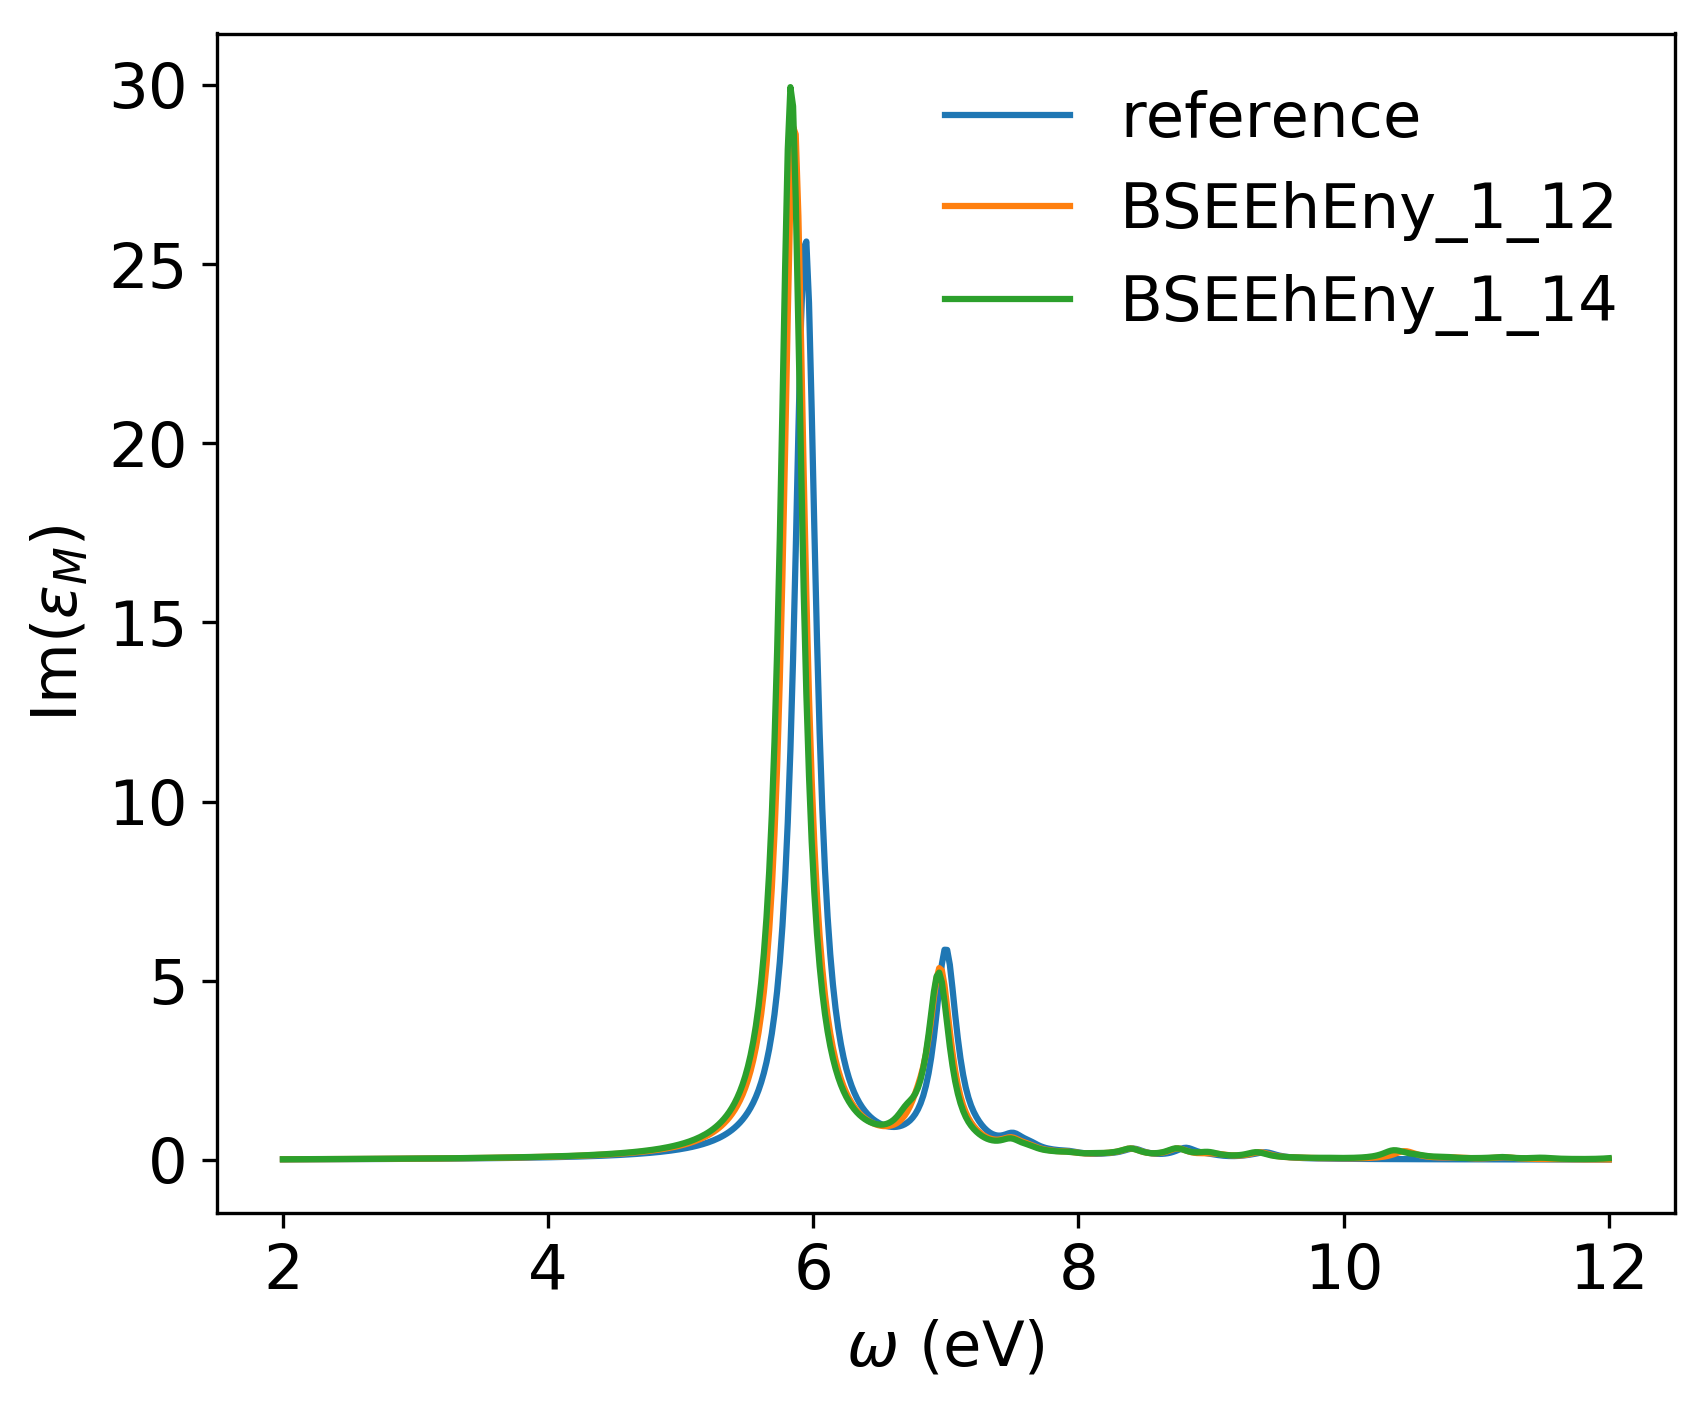
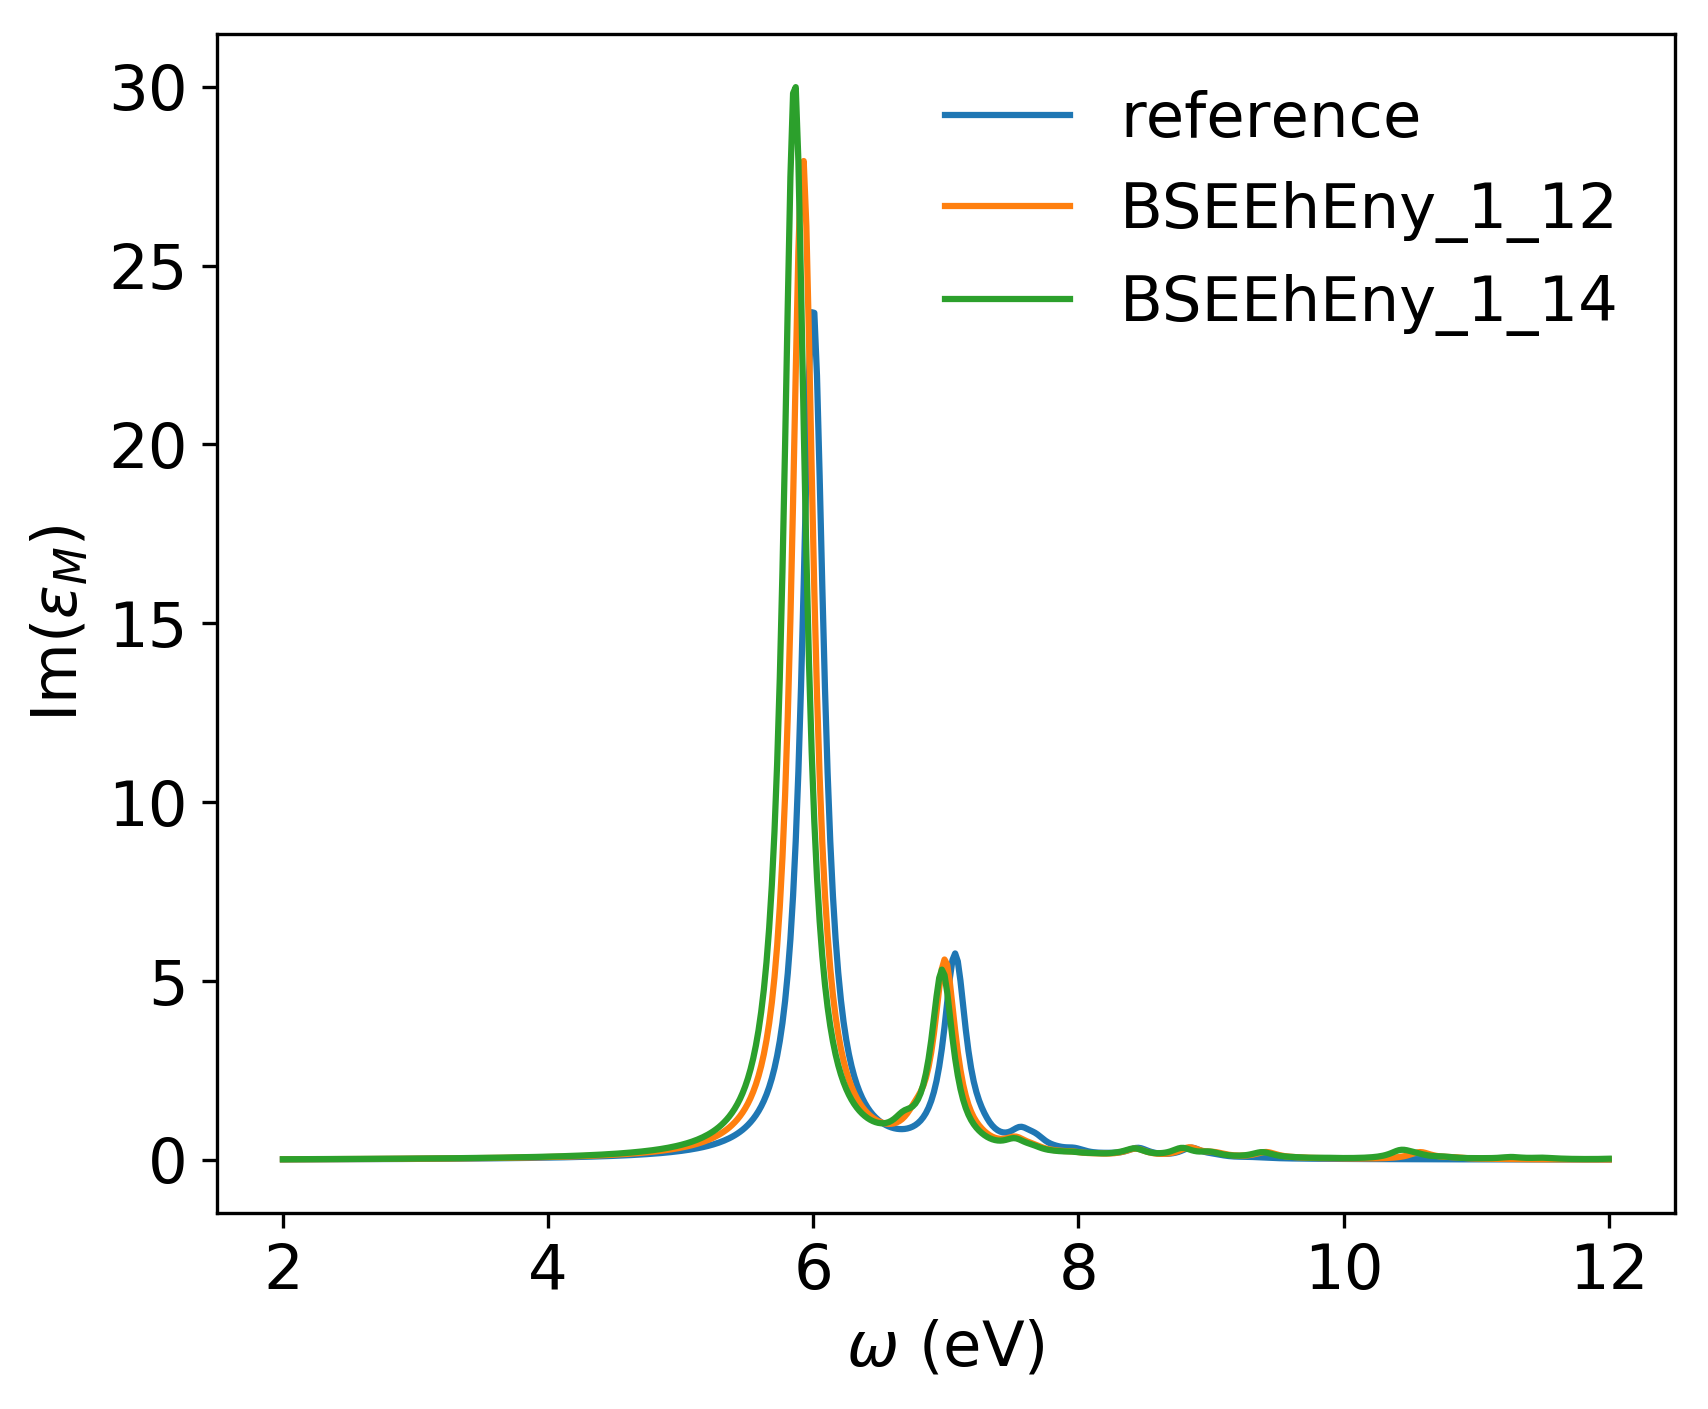
Last modifications

diff --git a/tutorial/bn/bse_conv_bn.py b/tutorial/bn/bse_conv_bn.py
@@ -48,10 +48,12 @@ def bse_convergence(what='dielectric',threads=1,nohup=False):
     #create the yambo input file
     y = YamboIn('%s -b -o b -k sex -y d -V all'%yambo,folder=folder)
 
-    #common variables
+    #default variables
     y['BSEBands'] = [4,5]
     y['BEnSteps'] = 500
+    y['BSEEhEny'] = [[1.0,10.0],'eV']
     y['BEnRange'] = [[2.0,12.0],'eV']
+    y['BSENGexx'] = [10,'Ry']
     y['KfnQP_E']  = [2.91355133,1.0,1.0] #some scissor shift
     y['DBsIOoff'] = 'BS' #turn off writting BSE hamiltonian DB (better performance)
 
@@ -73,7 +75,7 @@ def bse_convergence(what='dielectric',threads=1,nohup=False):
         y['BSEBands'] = [1,10]
 
         #list of variables to optimize the BSE
-        conv = { 'BSEEhEny': [[[1,10],[1,12],[1,14],[1,16]],'eV'],
+        conv = { 'BSEEhEny': [[[1,10],[1,12],[1,14]],'eV'],
                  'BSENGBlk': [[0,1,2], 'Ry'],
                  'BSENGexx': [[10,15,20],'Ry']}
 
@@ -85,9 +87,10 @@ def bse_convergence(what='dielectric',threads=1,nohup=False):
         print(filename, path)
         shell = scheduler()        
         shell.add_command('cd %s'%folder)
-        shell.add_command('rm -f *.json %s/o-*'%path) #cleanup`
         shell.add_command('%s mpirun -np %d %s -F %s -J %s -C %s 2> %s.log'%(nohup,threads,yambo,filename,path,path,path))
-        shell.run()
+        shell.add_command('touch %s/done'%path)
+        if not os.path.isfile("%s/%s/done"%(folder,path)):
+            shell.run()
 
     y.optimize(conv,run=run)
 
@@ -157,7 +160,7 @@ if __name__ == "__main__":
     parser.add_argument('-b', '--bse',     action="store_true",  help='converge bse parameters')
     parser.add_argument('-u', '--nohup',   action="store_true",  help='run the commands with nohup')
     parser.add_argument('-f', '--folder',  default="bse_conv",    help='choose folder to put the results')
-    parser.add_argument('-t', '--threads', default=4, type=int,  help='number of threads to use')
+    parser.add_argument('-t', '--threads', default=1, type=int,  help='number of threads to use')
     parser.add_argument('--p2y',     default="store_true", help='p2y executable')
     parser.add_argument('--yambo',   default="store_true", help='yambo executable')
 

diff --git a/tutorial/bn/bse_par_bn.py b/tutorial/bn/bse_par_bn.py
@@ -120,7 +120,7 @@ def plot():
 
     #plot the results using yambo analyser
     y = YamboAnalyser()
-    y.plot_bse('eps')
+    y.plot_bse( ['eps','diago'] )
 
 if __name__ == "__main__":
     #parse options

diff --git a/docs/source/tutorial.rst b/docs/source/tutorial.rst
@@ -307,8 +307,18 @@ optical absorption spectra using yambopy:
     3. Plot excitonic wavefunctions
     4. Parallel static screening
 
+Before you start this tutorial, make sure you did the scf and nscf runs.
+If you did not, you can calculate the scf ``-s`` and nscf ``-n`` using the ``gs_bn.py`` file:
+
+.. code-block:: bash
+
+    python gs_bn.py -s -n
+
+When that is done, you can start the tutorial.
+
 1. Relevant parameters for the convergence
 ~~~~~~~~~~~~~~~~~~~~~~~~~~~~~~~~~~~~~~~~~~~~~~~~~~~~~~~~~~~~~~~~~~
+In this section of the tutorial we will use the ``bse_conv_bn.py`` file.
 To calculate the Bethe-Salpeter Kernel we need to first calculate the static dielectric screening and then the screened coulomb interaction matrix elements.
 The relevant convergence parameters for these two stages are:
 
@@ -320,42 +330,36 @@ The relevant convergence parameters for these two stages are:
 
     ``NGsBlkXs``: number of components for the local fields. Averages the value of the dielectric screening over a number of periodic copies of the unit cell. This parameter increases greatly increases the cost of the calculation and hence should be increased slowly. A typical good value is 2 Ry.
 
-
-To run these calculations, you need to relax the structure ``-r``, calculate the scf ``-s`` and nscf ``-n`` with Quantum Espresso:
-
-.. code-block:: bash
-
-    python gs_bn.py -s -n
-
-When that is done, you can converge the dielectric function.
-To run the convergence we create a dictionary with different values to try.
-The script will create a reference input file with the first value of each parameter and then create input files with the other parameters changing according to the values specified in the list.
+To run the convergence we create a dictionary with different values for the variables.
+The python script (``bse_conv_bn.py``) will create a reference input file with the first value of each parameter.
+Then it will create input files with the other parameters changing according to the values specified in the list.
 
 .. code-block:: python
 
-        conv = { 'FFTGvecs': [[10,15,20,30],'Ry'],
-                 'NGsBlkXs': [[1,2,3,5,6], 'Ry'],
-                 'BndsRnXs': [[1,10],[1,20],[1,30],[1,40]] }
+    #list of variables to optimize the dielectric screening
+    conv = { 'FFTGvecs': [[10,15,20,30],'Ry'],
+             'NGsBlkXs': [[1,2,3,5,6], 'Ry'],
+             'BndsRnXs': [[1,10],[1,20],[1,30],[1,40]] }
 
-The scripts are written in the ``bse_conv_bn.py`` file.
-You are free to open it and modify it accoridng to your own needs.
 To run the convergence with the static dielectric function do:
 
 .. code-block:: bash
 
     python bse_conv_bn.py -r -e
 
+As you can see, the python script is running all the calculations changing the value of the input variables.
+You are free to open the ``bse_conv_bn.py`` file and modify it accoridng to your own needs.
 Using the optimal parameters, you can run a calculation and save the dielectric screening
 databases ``ndb.em1s*`` to re-use them in the subsequent calculations.
-For that you can copy these files to the SAVE folder. This is done in
-the ``run`` function inside the ``bse_conv_bn.py`` file.
+For that you can copy these files to the SAVE folder. 
 ``yambo`` will only re-calculate any database if it does not find it
 or some parameter has changed.
 
-Once the calculations are done you can plot the static dielectric function as a function of q points:
+Once the calculations are done you can plot the static dielectric function as
+a function of q points using the following commands:
 
 .. code-block:: bash
-
+    
     yambopy plotem1s bse_conv/FFTGvecs* bse_conv/reference
     yambopy plotem1s bse_conv/BndsRnXs* bse_conv/reference
     yambopy plotem1s bse_conv/NGsBlkXs* bse_conv/reference
@@ -370,12 +374,14 @@ Once the calculations are done you can plot the static dielectric function as a 
    :height: 200px
    :width: 320 px
 
+You are at this point invited to add new entries to the list of ``BndsRnXs`` in the convergence dictionary (keep it bellow or equal to the number of bands in the nscf calculation) re-run the script and plot the results again.
 
 **b. Optical absorption spectra**
 
 Once you obtained a converged dielectric screening function you can calculate the Bethe-Salpeter
 auxiliary Hamiltonian and obtain the excitonic states and energies diagonalizing it or
 calculating the optical absorption spectra with a recursive technique like the Haydock method.
+Recall the relevant parameters for convergence:
 
     ``BSEBands``: number of bands to generate the transitions. Should be as small as possible as the size of the BSE auxiliary hamiltonian has (in the resonant approximation) dimensions ``Nk*Nv*Nc``. Another way to converge the number of transitions is using ``BSEEhEny``. This variable selects the number of transitions based on the electron-hole energy difference.
 
@@ -390,11 +396,13 @@ The dictionary of convergence in this case is:
 
 .. code-block:: python
 
-        conv = { 'BSEEhEny': [[[1,10],[1,12],[1,14],[1,16]],'eV'],
-                 'BSENGBlk': [[0,1,2], 'Ry'],
-                 'BSENGexx': [[10,15,20],'Ry']}
+    #list of variables to optimize the BSE
+    conv = { 'BSEEhEny': [[[1,10],[1,12],[1,14]],'eV'],
+             'BSENGBlk': [[0,1,2], 'Ry'],
+             'BSENGexx': [[10,15,20],'Ry']}
 
-To run these calculations do:
+All these variables do not change the dielectric screening, so you can calculate it once and put the database in the ``SAVE`` folder to make the calculations faster.
+To run these ``BSE`` part of the calculation do:
 
 .. code-block:: bash
 
@@ -436,21 +444,22 @@ Here we will check how the dielectric screening changes with vacuum spacing betw
 For that we define a loop where we do a self-consistent ground state calculation, non self-consistent calculation, create the databases and run a ``yambo`` BSE calculation for different vacuum spacings.
 
 To analyze the data we will:
+
     1. plot the dielectric screening
+
     2. check how the different values of the screening change the absorption spectra
 
 In the folder ``tutorials/bn/`` you find the python script ``bse_cutoff.py``.
-You can run this script with :
+This script takes some time to be executed, you can run both variants without the cutoff and with the cutoff ``-c`` simultaneously to save time.
+You can run this script with:
 
 .. code-block:: bash
 
     python bse_cutoff.py -r -t4    # without coulomb cutoff
     python bse_cutoff.py -r -c -t4 # with coulomb cutoff
 
-where ``-t`` specifies the number of threads to use. The threads in this script are managed
-using the ``multiprocessing`` module of python. The way it is implemented it will run as much simultaneous job as threads, once one of the jobs is done, if there are more jobs to run it will be submitted otherwise it will just wait for all the running jobs to complete.
-
-The main loop changes the ``layer_separation`` variable using values from a list.
+where ``-t`` specifies the number of MPI threads to use.
+The main loop changes the ``layer_separation`` variable using values from a list in the header of the file.
 In the script you can find how the functions ``scf``, ``ncf`` and ``database`` are defined.
 
 **3. Plot the dielectric function**
@@ -470,6 +479,8 @@ In a similar way as what was done before we can now plot the dielectric function
    :height: 200px
    :width: 320 px
 
+In these figures it is clear that the long-range part of the coulomb interaction (q=0 in reciprocal space) is truncated, i. e. it is forced to go to zero.
+
 **2. Plot the absorption**
 
 You can also plot how the absorption spectra changes with the cutoff using:
@@ -487,11 +498,15 @@ You can also plot how the absorption spectra changes with the cutoff using:
    :height: 200px
    :width: 320 px
 
+As you can see, the spectra is still changing with the vaccum spacing, you should 
+increase the vacuum until convergence. For that you can add larger values to the ``layer_separations`` list and run the calculations and analysis again.
+
 3. Excitonic wavefunctions
 ~~~~~~~~~~~~~~~~~~~~~~~~~~~~~~~~~~~~~~~~~~~~
 
-In this example we show how to use the ``yambopy`` to plot the excitonic wavefunctions that result from a BSE calculation.
-Be aware the parameters of the calculation are not high enough to obtain a converged calculation. To run the calculation do:
+In this example we show how to use the ``yambopy`` to plot the excitonic wavefunctions that result from a BSE calculation. The script we will use this time is: ``bse_bn.py``.
+Be aware the parameters specified for the calculation are not high enough to obtain a converged result.
+To run the BSE calculation do:
 
 .. code-block:: bash
 
@@ -522,6 +537,7 @@ Plots in real space are also possible using yambopy (by calling ypp). In the ana
     a.get_wavefunctions(Degen_Step=0.01,repx=range(-1,2),repy=range(-1,2),repz=range(1),
                         Cells=[13,13,1],Hole=[0,0,6+.5], FFTGvecs=10,wf=True)
 
+    a.write_json()
     
 The class ``YamboBSEAbsorptionSpectra()`` reads the absorption spectra obtained with explicit diagonalization of the
 BSE matrix. ``yambo`` if the ``job_string`` identifier used when running yambo, ``bse`` is the name of the folder where the job was run.
@@ -559,7 +575,7 @@ You can now visualize these wavefunctions in real space using our online tool:
 `http://henriquemiranda.github.io/excitonwebsite/ <http://henriquemiranda.github.io/excitonwebsite/>`_ 
 
 For that, go to the website, and in the ``Excitons`` section select ``absorptionspectra.json`` file using the ``Custom File``.
-You shuold see on the right part the absorption spectra and on the left the representation of the wavefunction in real space.
+You should see on the right part the absorption spectra and on the left the representation of the wavefunction in real space.
 Alternatively you can vizualize the individually generated ``.xsf`` files using xcrysden.
 
 4. Parallel static screening
@@ -580,21 +596,19 @@ If there are many free nodes you might end up running all the q-points at the sa
 **The idea is quite simple:** you create an individual input file for each q-point, submit each job separately, collect
 the results and do the final BSE step (this method should also apply for a GW calculation).
 
-**1. Ground State**
+**2. Parallel Dielectric function**
 
-The ground state calculation for BN is made in a similar fashion as the previous examples.
+To run the dielectric function in parallel do:
 
 .. code-block:: bash
 
     python bse_par_bn.py -r -t2
 
-**2. Parallel Dielectric function**
-
 Here we tell ``yambo`` to calculate the dielectric function.
 We read the number of q-points the system has and generate one input file per q-point.
 Next we tell ``yambo`` to calculate the first q-point.
 ``yambo`` will calculate the dipoles and the dielectric function at the first q-point.
-Once the calculation is done we copy the dipoles to the SAVE directory. After that we can run each q-point calculation as a separate job.
+Once the calculation is done we copy the dipoles to the SAVE directory. After that we run each q-point calculation as a separate job.
 Here the user can decide to submit one job per q-point on a cluster or use the python ``multiprocessing`` module to submit the jobs in parallel.
 In this example we use the second option.
 
@@ -667,11 +681,11 @@ calculate the absorption.
 
 You can then plot the data as before:
 
-
 .. code-block:: bash
       
     python bse_par_bn.py -p
 
+This will execute the following code:
 
 .. code-block:: python
 
@@ -679,12 +693,13 @@ You can then plot the data as before:
     pack_files_in_folder('bse_par')
 
     #plot the results using yambo analyser
-    y = YamboAnalyser('bse_par')
-    y.plot_bse('eps')
+    y = YamboAnalyser()
+    print y
+    y.plot_bse(['eps','diago'])
 
-You should now obtain a plot like this:
+You should obtain a plot like this:
 
-.. image:: figures/bse_mos2.png
+.. image:: figures/bse_bn.png
 
 Real Time Simulations (Si)
 ---------------------------
